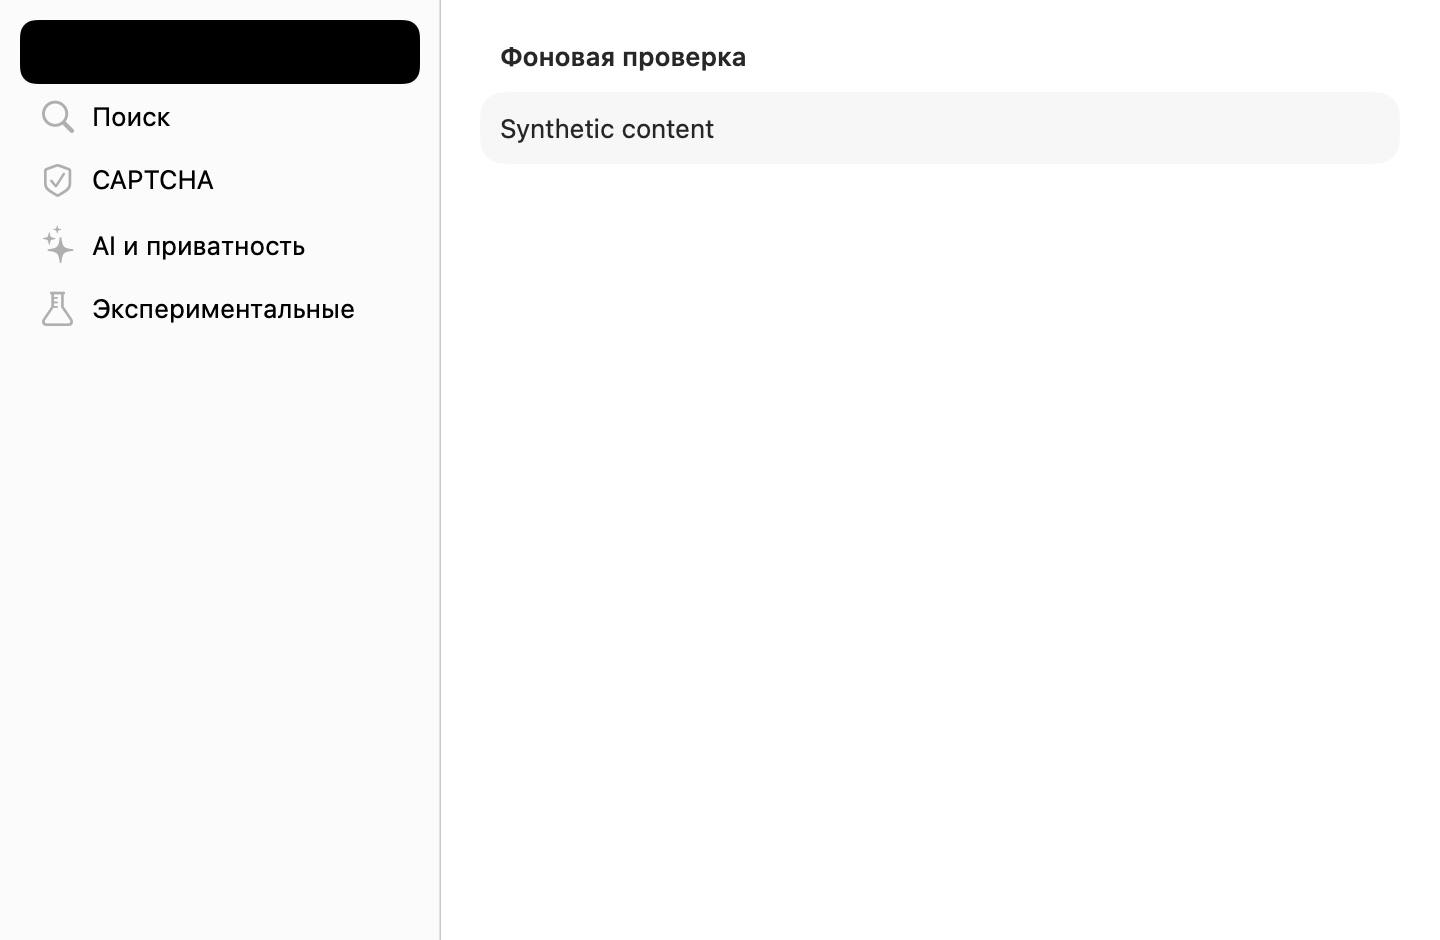
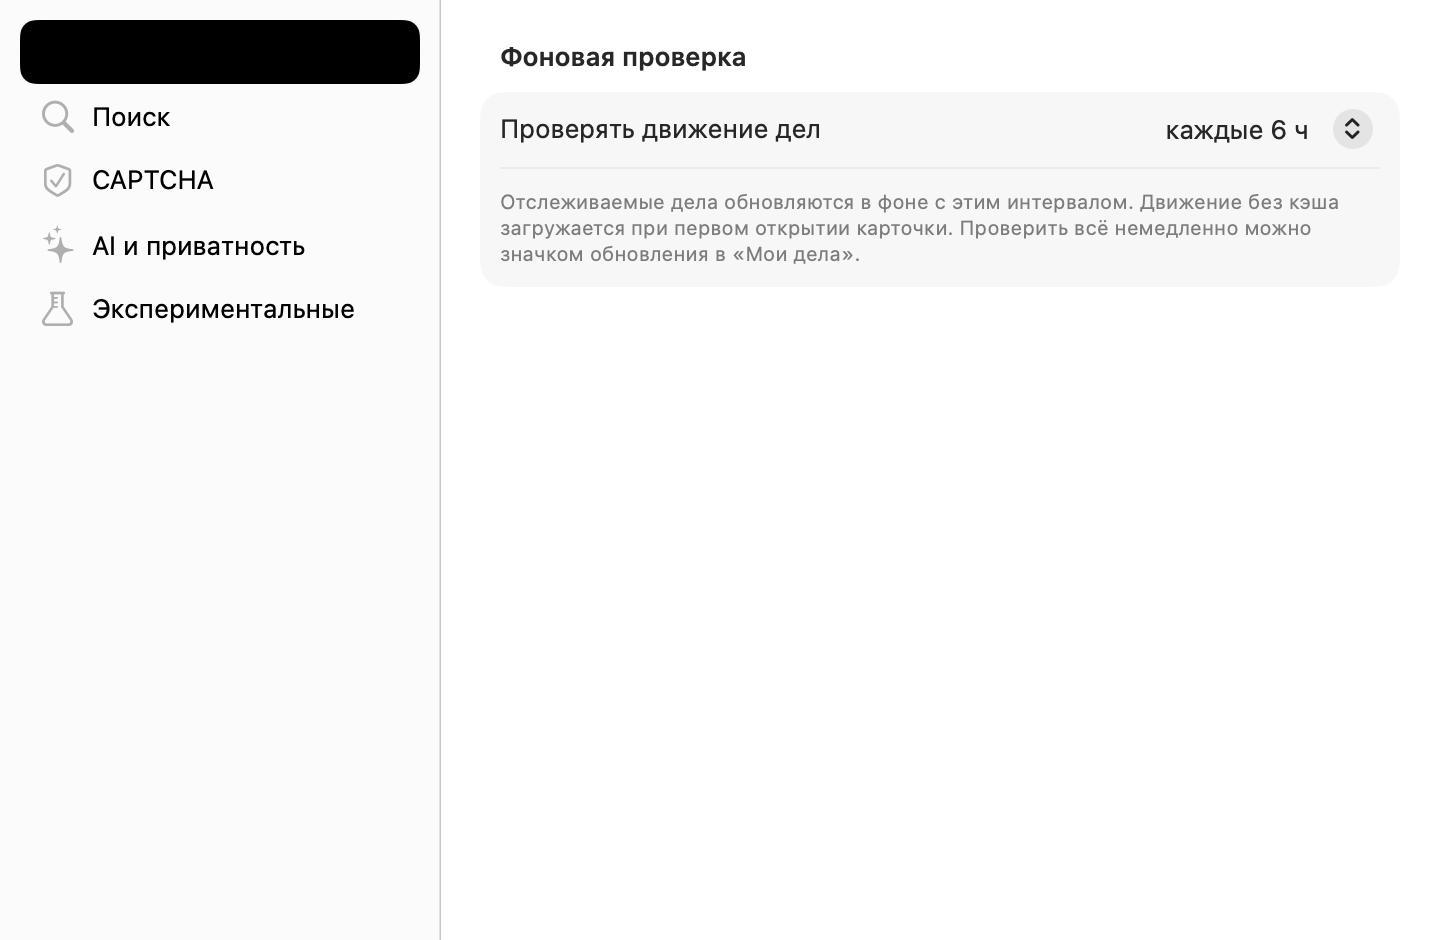
docs(settings): record macOS 26 spacing probe and remove temporary workflow

Changed region(s): [[0.3438, 0.1851, 0.9375, 0.2777], [0.3438, 0.1234, 0.5625, 0.1543], [0.8125, 0.1234, 0.9062, 0.1543]]

diff --git a/Docs/qa/issue-366/README.md b/Docs/qa/issue-366/README.md
@@ -6,7 +6,7 @@
 
 Причина обрезания — прежняя фиксированная ширина боковой панели 184 pt. При неизменном `Label` название «Экспериментальные» обрезается; минимальная и предпочтительная ширина 220 pt позволяют показать его целиком. Название сохранено; добавлены системная подсказка и явное доступное имя.
 
-Ниже — невидимый `NSHostingView` размером 720 × 470 pt на **macOS 27.2 (26B5101f)**. Оболочка и список извлекаются из настоящего `SettingsHub.swift`; содержимое всех разделов заменено синтетическим grouped Form. Пользовательские настройки, реальные AI-разделы, Keychain, база и приложение не открываются. Чёрная выбранная строка — артефакт offscreen-отрисовки, не подтверждение её внешнего вида в приложении. Изображения имеют масштаб 2×.
+Ниже — невидимый `NSHostingView` размером 720 × 470 pt на **macOS 27.2 (26B5101f)**. Оболочка и список извлекаются из настоящего `SettingsHub.swift`; первая панель использует настоящее содержимое `RefreshSettingsPane` с тестовым `@State` вместо `@AppStorage`; четыре остальных раздела заменены синтетическими grouped Form с исходными заголовками. Пользовательские настройки, реальные AI-разделы, Keychain, база и приложение не открываются. Чёрная выбранная строка — артефакт offscreen-отрисовки, не подтверждение её внешнего вида в приложении. Изображения имеют масштаб 2×.
 
 | До: 184 pt | После: минимум / предпочтительно 220 pt |
 | --- | --- |
@@ -24,7 +24,11 @@ python3 Docs/qa/issue-366/render-sidebar.py --output-dir /private/tmp/sudrf-366/
 
 Дефект зарегистрирован на macOS 26. На доступной macOS 27.2 синтетический grouped Form в этой оболочке уже показывает первый заголовок примерно в 22 pt от верха содержимого. Общий `.frame(..., alignment: .top)`, `VStack` и `.contentMargins` в отдельном пробном host не изменили итоговое расположение. Поэтому эти неподтверждённые изменения не включены.
 
-Синтетическая форма и текущая версия ОС не доказывают, что отступ исправлен в пяти настоящих разделах на macOS 26.
+Дополнительная проверка выполнена на **macOS 26.6.2 (25G83), Xcode 26.6 (17F113)**: [изолированный CI-прогон](https://github.com/arvidsever/Sudrf/actions/runs/37596688780). Настоящее содержимое первой панели с тестовым состоянием также начинается примерно в 22 pt от верха. На headless runner боковой список не отрисовался; эти снимки подтверждают лишь положение формы, а не приёмку боковой панели.
+
+![Первая панель на macOS 26.6.2](macos26-sidebar-after-720pt.png)
+
+Временный workflow удалён после получения свидетельств; воспроизводимый инструмент остаётся в QA. Сохранены снимки до/после с обеих систем. Ни невидимый NSHostingView, ни первая панель не доказывают поведение настоящей Settings-сцены и всех пяти разделов. Для этой оставшейся границы нужна отложенная живая проверка.
 
 ## Автоматические проверки
 
